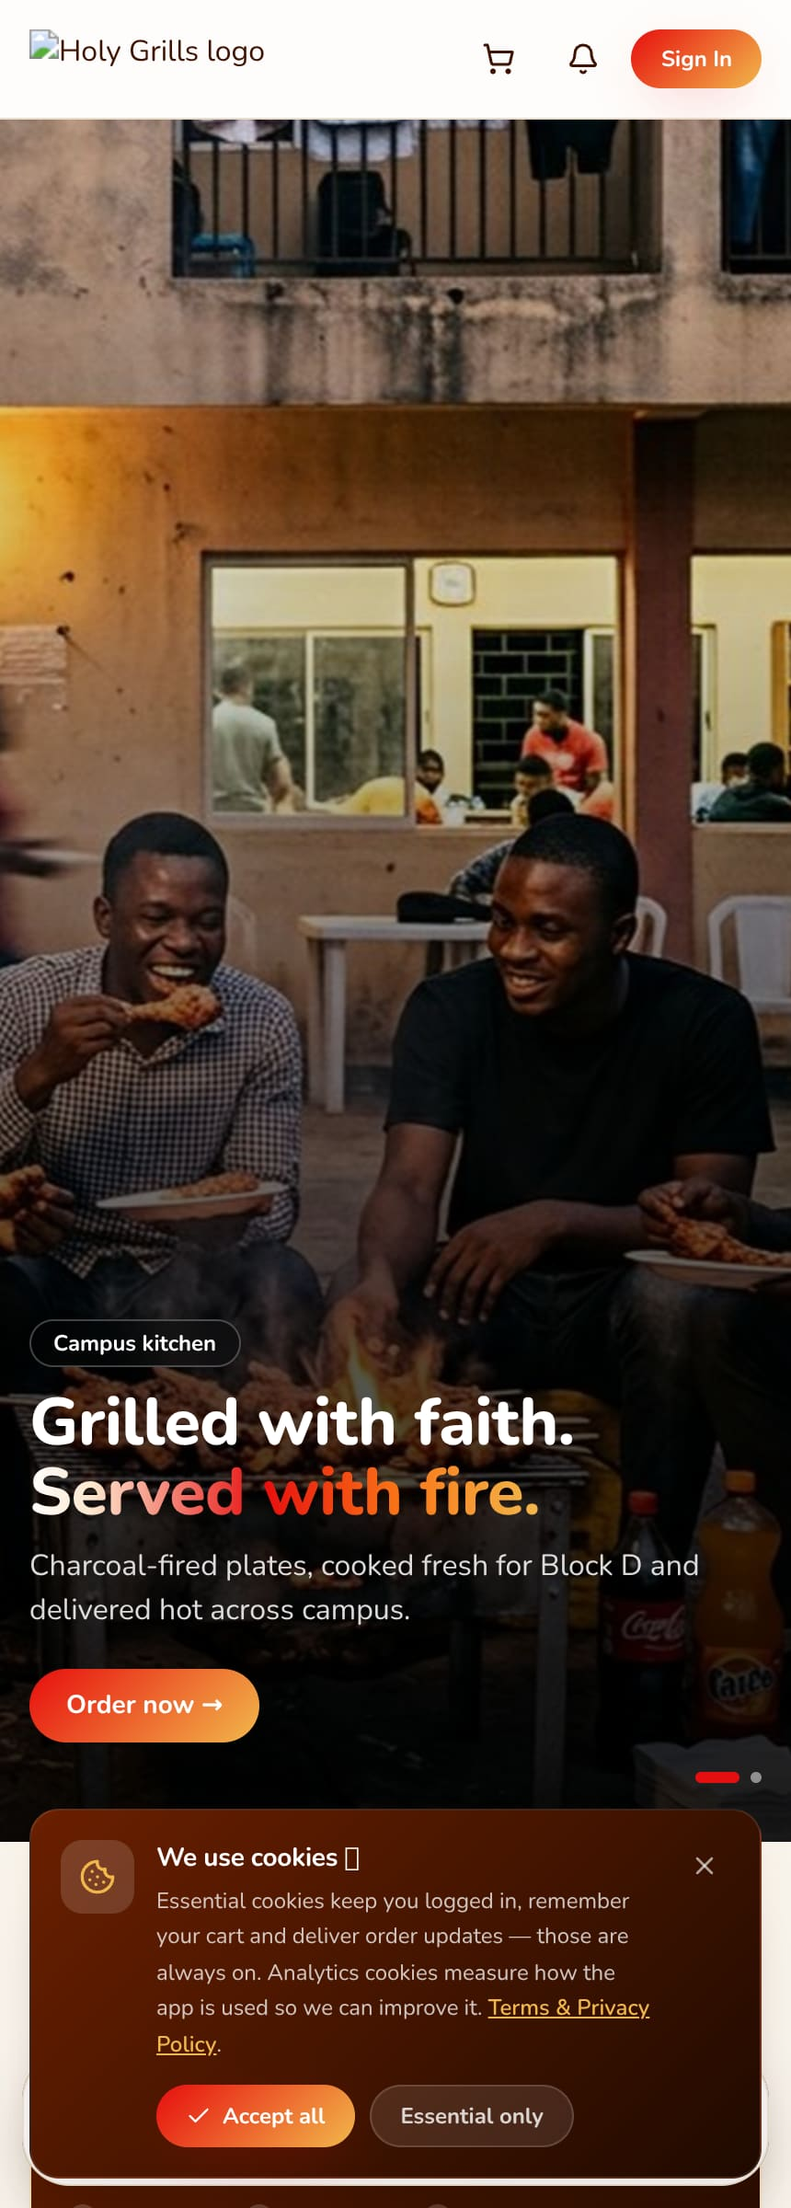
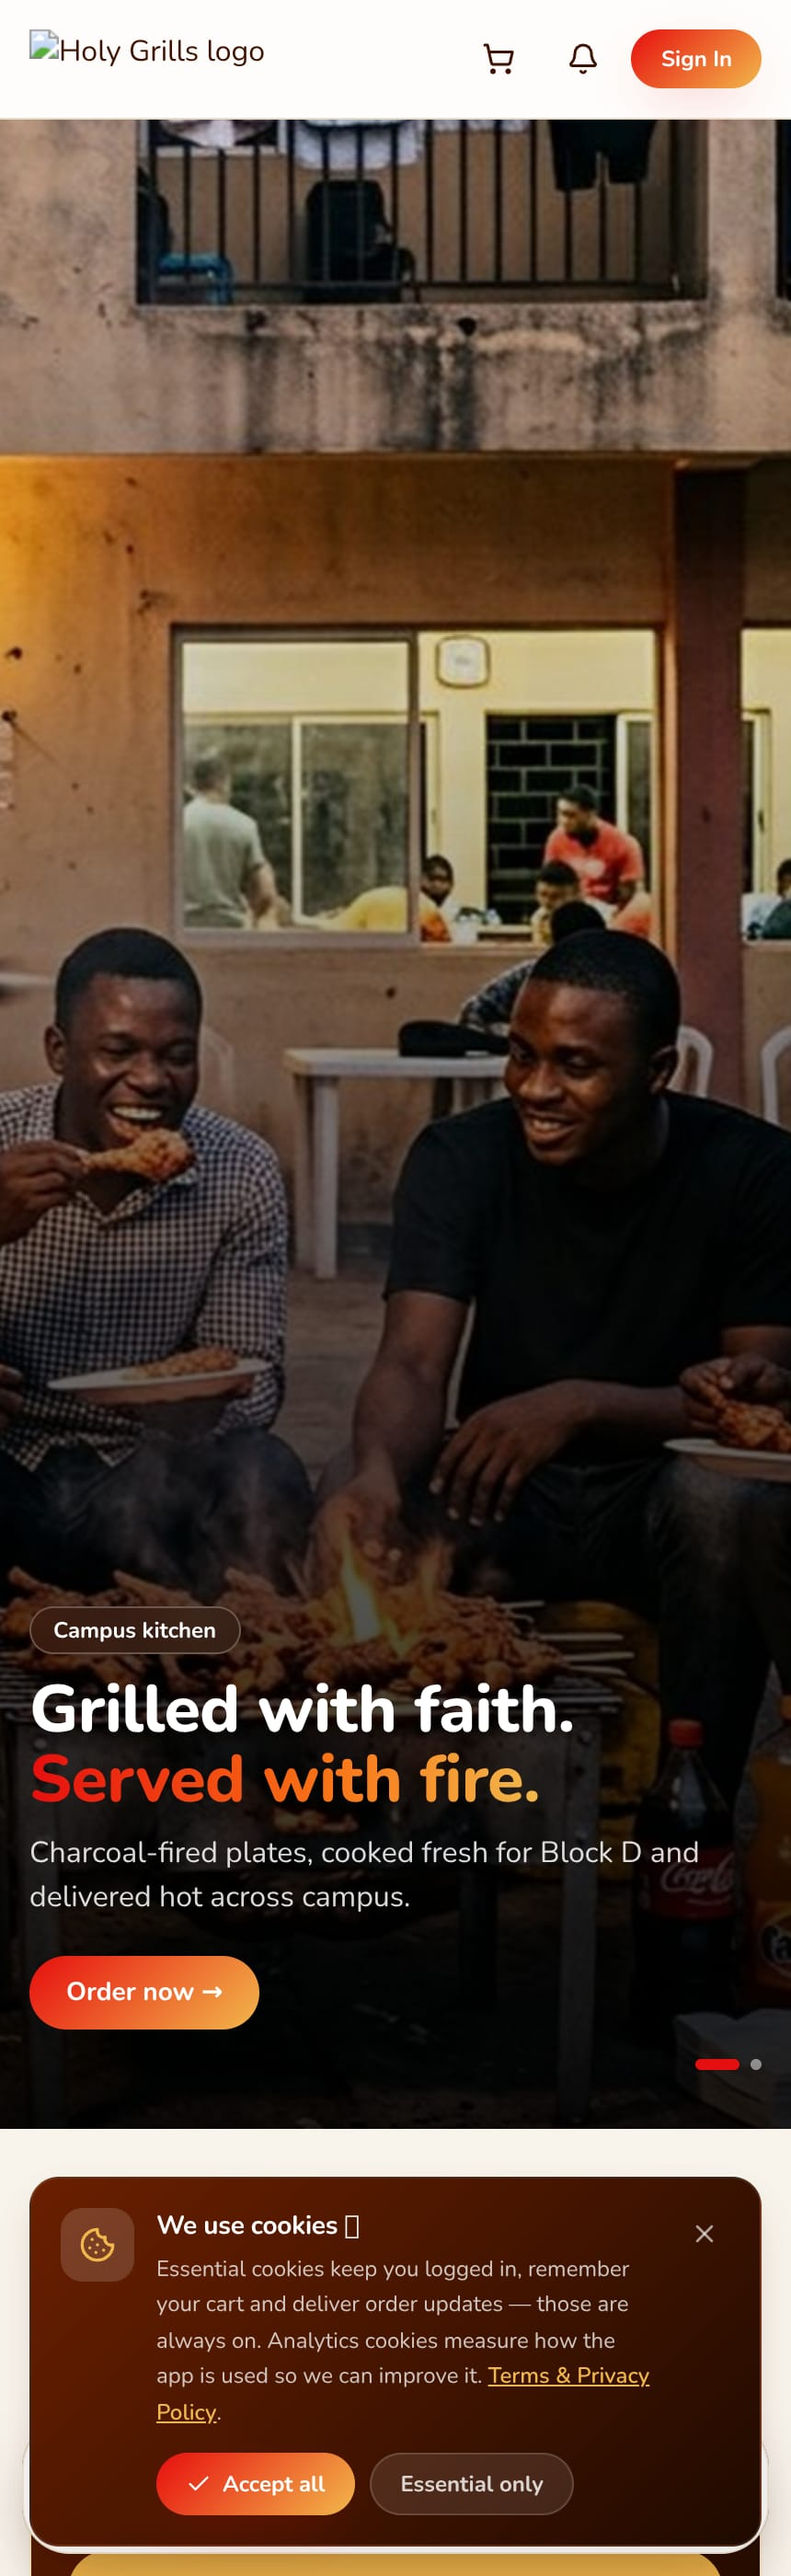
Hero headline: break at punctuation so white and gradient never blend
The tail span used to start with a white/cream stop, which made the two colours
fade into each other. The white run now ends at the first punctuation mark
(inclusive) and the gradient starts on the next word at full brand red.

- lib/heroTitle.ts: punctuation-first boundary (, . ; : ! ? …), line break as
  fallback, whole title white when there is no boundary — no word-count split.
- --gradient-hero-title: #E70E0E 0% -> #F97316 58% -> #F2B84B 100%, no white stop.
- test:hero-title expanded to 23 assertions; evidence doc + screenshots updated.

diff --git a/holy-grills-frontend/src/lib/heroTitle.ts b/holy-grills-frontend/src/lib/heroTitle.ts
@@ -1,38 +1,38 @@
 /**
- * Hero headline split — white opening, gradient finish.
+ * Hero headline split — white up to the punctuation, gradient after it.
  * ============================================================================
- * The homepage hero used to paint the whole title with the brand gradient. The
- * reference design keeps the first phrase plain white and only then lets the
- * colour bloom, so the headline reads as white copy that warms up rather than
- * as a gradient that happens to start on a letter.
+ * The homepage hero keeps its opening phrase plain white and only then starts
+ * the brand gradient. The boundary is a **punctuation mark**, never a colour
+ * fade: the white run ends (and the punctuation itself belongs to the white
+ * run), then the gradient begins on the next word. Nothing is blended — there
+ * is no cream stop or white-to-red ramp between the two halves.
  *
- * The split is copy-driven, never hardcoded:
- *   1. an explicit line break in the CMS headline is the strongest signal;
- *   2. otherwise the first sentence — including its own closing punctuation,
- *      which is what makes "eat." still read as white;
- *   3. otherwise the first comma-separated clause;
- *   4. otherwise an even word split, so even a bare phrase still transitions.
+ * Resolution order, all copy-driven:
+ *   1. the earliest punctuation cluster (, . ; : ! ? …) followed by a space;
+ *   2. an explicit line break in the CMS headline;
+ *   3. no boundary at all — the whole title stays white (no gradient is forced
+ *      onto a phrase that has nowhere clean to break).
  *
  * Pure and import-free, so `npm run test:hero-title` can exercise the real
  * module (esbuild transpiles it, exactly like the other lib tests).
  */
 
 export interface HeroTitleParts {
-  /** Rendered white. */
+  /** Rendered white, punctuation included. */
   lead: string;
-  /** Rendered with the white → fire gradient. Empty when nothing is left. */
+  /** Rendered with the brand gradient. Empty when there is no boundary. */
   tail: string;
 }
 
+/** Earliest punctuation cluster that is followed by whitespace and more copy. */
+const PUNCTUATION_BOUNDARY = /^([\s\S]*?[,.;:!?…]+)\s+([\s\S]+)$/;
 const LINE_BREAK = /^([^\n]+)\n+([\s\S]+)$/;
-const FIRST_SENTENCE = /^([\s\S]*?[.!?:;…])\s+([\s\S]+)$/;
-const FIRST_CLAUSE = /^([\s\S]*?,)\s+([\s\S]+)$/;
 
 export function heroTitleParts(title: unknown): HeroTitleParts {
   const text = typeof title === 'string' ? title.trim() : '';
   if (!text) return { lead: '', tail: '' };
 
-  for (const pattern of [LINE_BREAK, FIRST_SENTENCE, FIRST_CLAUSE]) {
+  for (const pattern of [PUNCTUATION_BOUNDARY, LINE_BREAK]) {
     const match = text.match(pattern);
     if (!match) continue;
     const lead = match[1].trim();
@@ -40,8 +40,7 @@ export function heroTitleParts(title: unknown): HeroTitleParts {
     if (lead && tail) return { lead, tail };
   }
 
-  const words = text.split(/\s+/);
-  if (words.length < 2) return { lead: text, tail: '' };
-  const split = Math.ceil(words.length / 2);
-  return { lead: words.slice(0, split).join(' '), tail: words.slice(split).join(' ') };
+  // No punctuation and no line break: keep the headline white rather than
+  // inventing a boundary somewhere inside a word run.
+  return { lead: text, tail: '' };
 }

diff --git a/holy-grills-frontend/src/index.css b/holy-grills-frontend/src/index.css
@@ -101,10 +101,10 @@
     --gradient-dark: linear-gradient(135deg, #6A1F00, #1F0A00);
     --gradient-soft: linear-gradient(135deg, #F3EBDD, #E5D6BD);
     --gradient-gold: linear-gradient(135deg, #F2B84B, #E5D6BD);
-    /* Hero headline — the opening phrase is plain white, and the rest of the
-       copy starts white too before melting into the fire gradient, so the
-       colour arrives gradually instead of starting mid-word. */
-    --gradient-hero-title: linear-gradient(90deg, #FFFFFF 0%, #FDE7CE 12%, #E70E0E 46%, #F97316 72%, #F2B84B 100%);
+    /* Hero headline — used only after the white run ends at a punctuation mark.
+       The gradient starts on full brand red, with no white or cream stop, so the
+       white and the gradient meet at a hard boundary and never blend. */
+    --gradient-hero-title: linear-gradient(90deg, #E70E0E 0%, #F97316 58%, #F2B84B 100%);
     /* Brand block — deep brown bleeding into primary red. Used for the profile
        menu header, where the tier ring needs a dark bed to read against. */
     --gradient-brand: linear-gradient(135deg, #6A1F00 0%, #E70E0E 100%);
@@ -327,7 +327,8 @@
     -webkit-text-fill-color: transparent;
     background-clip: text;
   }
-  /* Second half of a hero headline: white at the seam, brand fire by the end. */
+  /* Hero headline tail — starts on brand red exactly where the white run ended
+     at a punctuation mark. No white/cream stop, so the two never blend. */
   .hero-title-gradient {
     background-image: var(--gradient-hero-title);
     -webkit-background-clip: text;

diff --git a/docs/HERO_AND_INSIDE_VISUAL_EVIDENCE.md b/docs/HERO_AND_INSIDE_VISUAL_EVIDENCE.md
@@ -10,13 +10,14 @@ row. No database migration, no CMS data write, no new endpoint.
 `HeroCarousel` used to paint the entire hero title with the brand gradient. The
 headline now runs **white → fire gradient**:
 
-- the first phrase (and its own closing punctuation) is plain white;
-- the remaining copy starts white too and only then melts into
-  `#E70E0E → #F97316 → #F2B84B`, so the colour arrives gradually instead of
-  starting mid-word;
-- the split is copy-driven (`src/lib/heroTitle.ts`): explicit line break →
-  first sentence → first comma clause → even word split, so no headline copy is
-  hardcoded and no copy is lost;
+- the first phrase, **including its closing punctuation**, is plain white;
+- the gradient starts on the word after that punctuation and opens on full brand
+  red (`#E70E0E → #F97316 → #F2B84B`). There is no white or cream stop in the
+  gradient, so **white and gradient never blend** — the two meet at a hard edge;
+- the boundary is punctuation-driven (`src/lib/heroTitle.ts`): the earliest
+  `, . ; : ! ? …` followed by a space wins; an explicit line break is the
+  fallback; a headline with neither stays fully white rather than inventing a
+  break mid-phrase. No headline copy is hardcoded and none is lost;
 - `hero-title-gradient` (a utility in `index.css`, token
   `--gradient-hero-title`) is used only by the hero placement. The menu and
   checkout artwork carousels and every other heading keep plain white.
@@ -54,10 +55,10 @@ banners/sections/media; production CMS data untouched):
 - `npm run messages:check`: every call site resolves; `FE_SF_SIGN_UP` added to
   the registry (the one pre-existing drift in `AdminExclusiveSpin.tsx` is
   unrelated and unchanged).
-- `npm run test:hero-title`: **17 assertions pass** (sentence punctuation,
-  question mark, ellipsis, explicit line break, comma clause, word split, empty
-  and non-string input, no-copy-loss round trip). Wired into `npm run build`
-  next to the other lib tests.
+- `npm run test:hero-title`: **23 assertions pass** (full stop, comma, question
+  and exclamation marks, colon, ellipsis, multi-mark clusters, explicit line
+  break, no-punctuation fallback, empty and non-string input, no-copy-loss round
+  trip). Wired into `npm run build` next to the other lib tests.
 - `npm run test:value-text`, `npm run test:safe-navigation`: passed.
 - `npm run routes:check`: `vercel.json` in sync (36 SPA route families).
 - `python3 -m ast` parse of `messages.py`: MSG has 2,336 keys, no duplicates.
@@ -70,7 +71,7 @@ Measured in headless Chromium (1280 px and 430 px):
 | Check | Result |
 | --- | --- |
 | Hero `<h1>` | white `Grilled with faith.` + one `.hero-title-gradient` span `Served with fire.` |
-| Gradient | `linear-gradient(90deg, #FFF 0%, #FDE7CE 12%, #E70E0E 46%, #F97316 72%, #F2B84B 100%)`, `background-clip: text` |
+| Gradient | `linear-gradient(90deg, #E70E0E 0%, #F97316 58%, #F2B84B 100%)`, `background-clip: text` |
 | Other headings | 0 gradient spans (Squad Orders, Holy Points, section headers, Reviews) |
 | Text card | 104–106 px tall, 64 px icon frame, gradient "Sign up" pill, `aria-label="<title> — Sign up"` |
 | Full artwork | 960 × 320 upload rendered `object-contain` at 362 × 121 px (mobile) / 420 × 140 px cap (desktop), 12 px radius, transparent-to-muted frame, 10 px card margin |
@@ -78,7 +79,7 @@ Measured in headless Chromium (1280 px and 430 px):
 
 Screenshots: `01-hero-headline-split.jpg`, `02-hero-mobile.jpg`,
 `03-inside-card-mobile.jpg`, `04-inside-artwork-mobile.jpg`,
-`05-inside-artwork-desktop.jpg` (in this folder). They come from the local
+`05-inside-artwork-desktop.jpg`, `06-hero-headline-wrapped.jpg` (in this folder). They come from the local
 fixture, so the imagery and copy are placeholders, not production CMS content.
 
 ## Limits
@@ -86,3 +87,9 @@ fixture, so the imagery and copy are placeholders, not production CMS content.
 The preview backend was a local fixture: it proves rendering, geometry and
 routing, not production CMS publication. The default `/register` link is
 client-side; the real CMS rows keep whatever destination an administrator saves.
+
+The inset card frame + Sign up pill are scoped to the **compact** row
+(`variant="compact"`), which only What's Inside uses. Promos render as `poster`
+or `banner`, How It's Made as `landscape`, and the hero/menu/checkout banner
+placements render through `HeroCarousel` / `CompactBannerCarousel`; none of
+those were restyled in this change.
